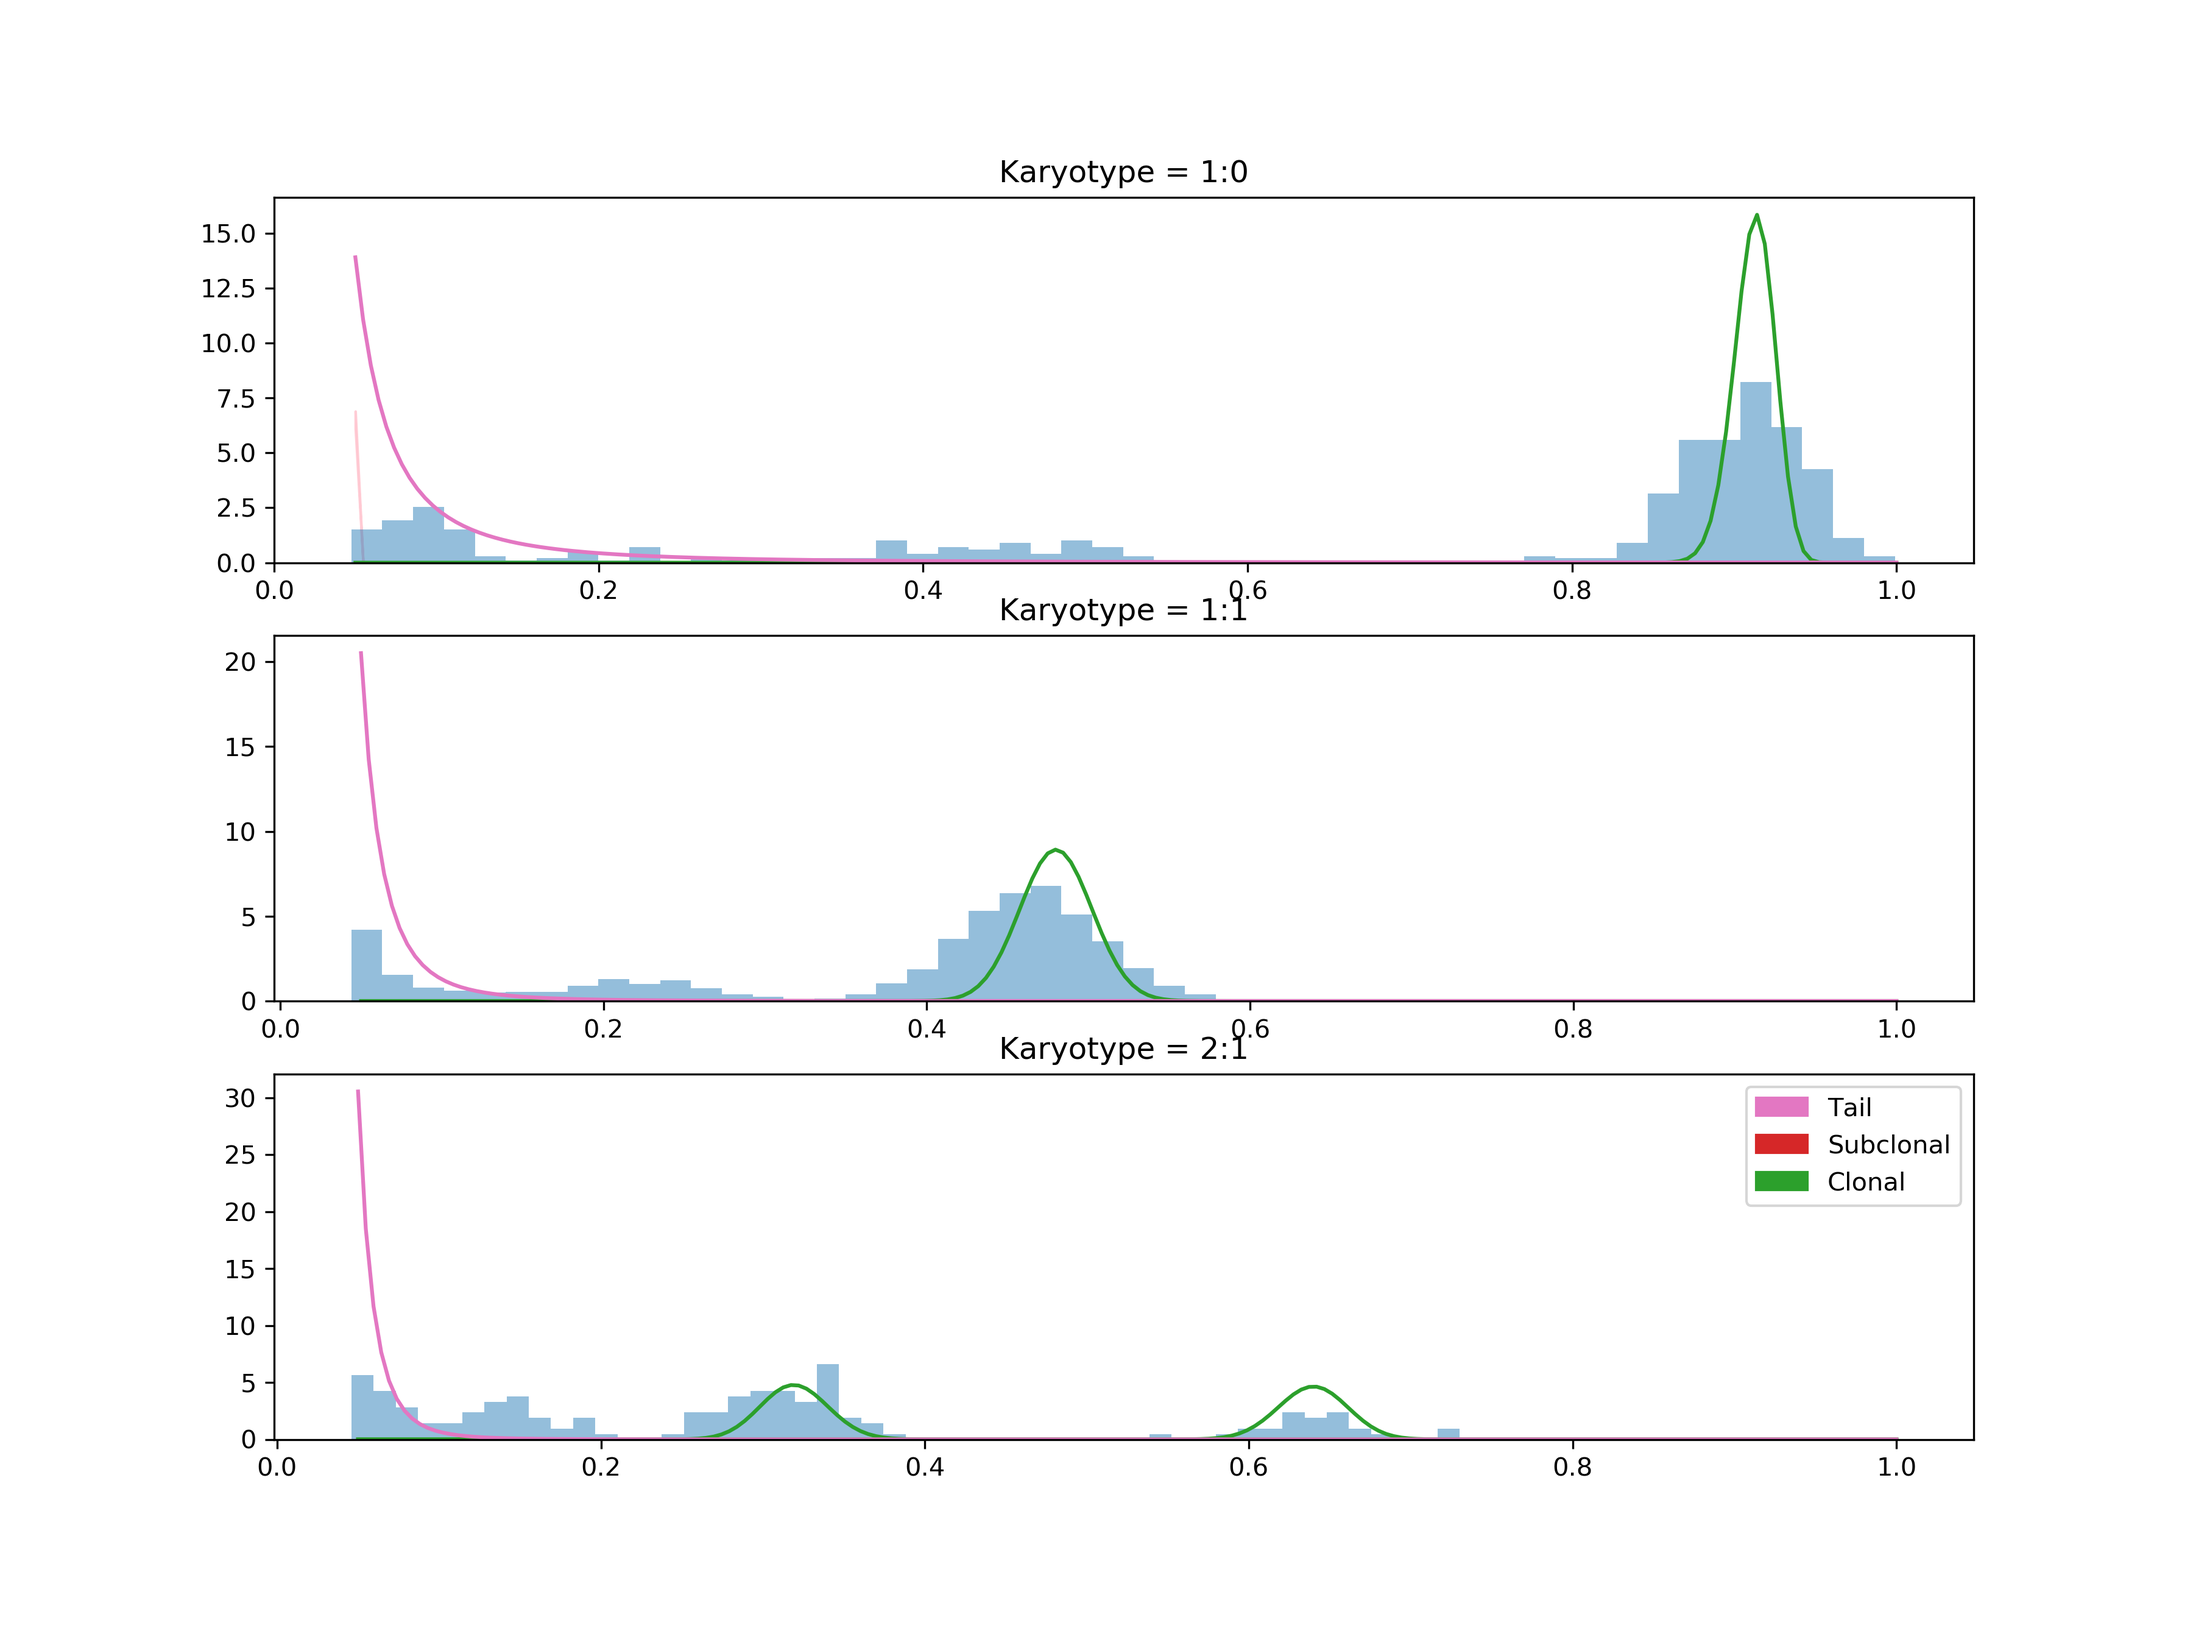
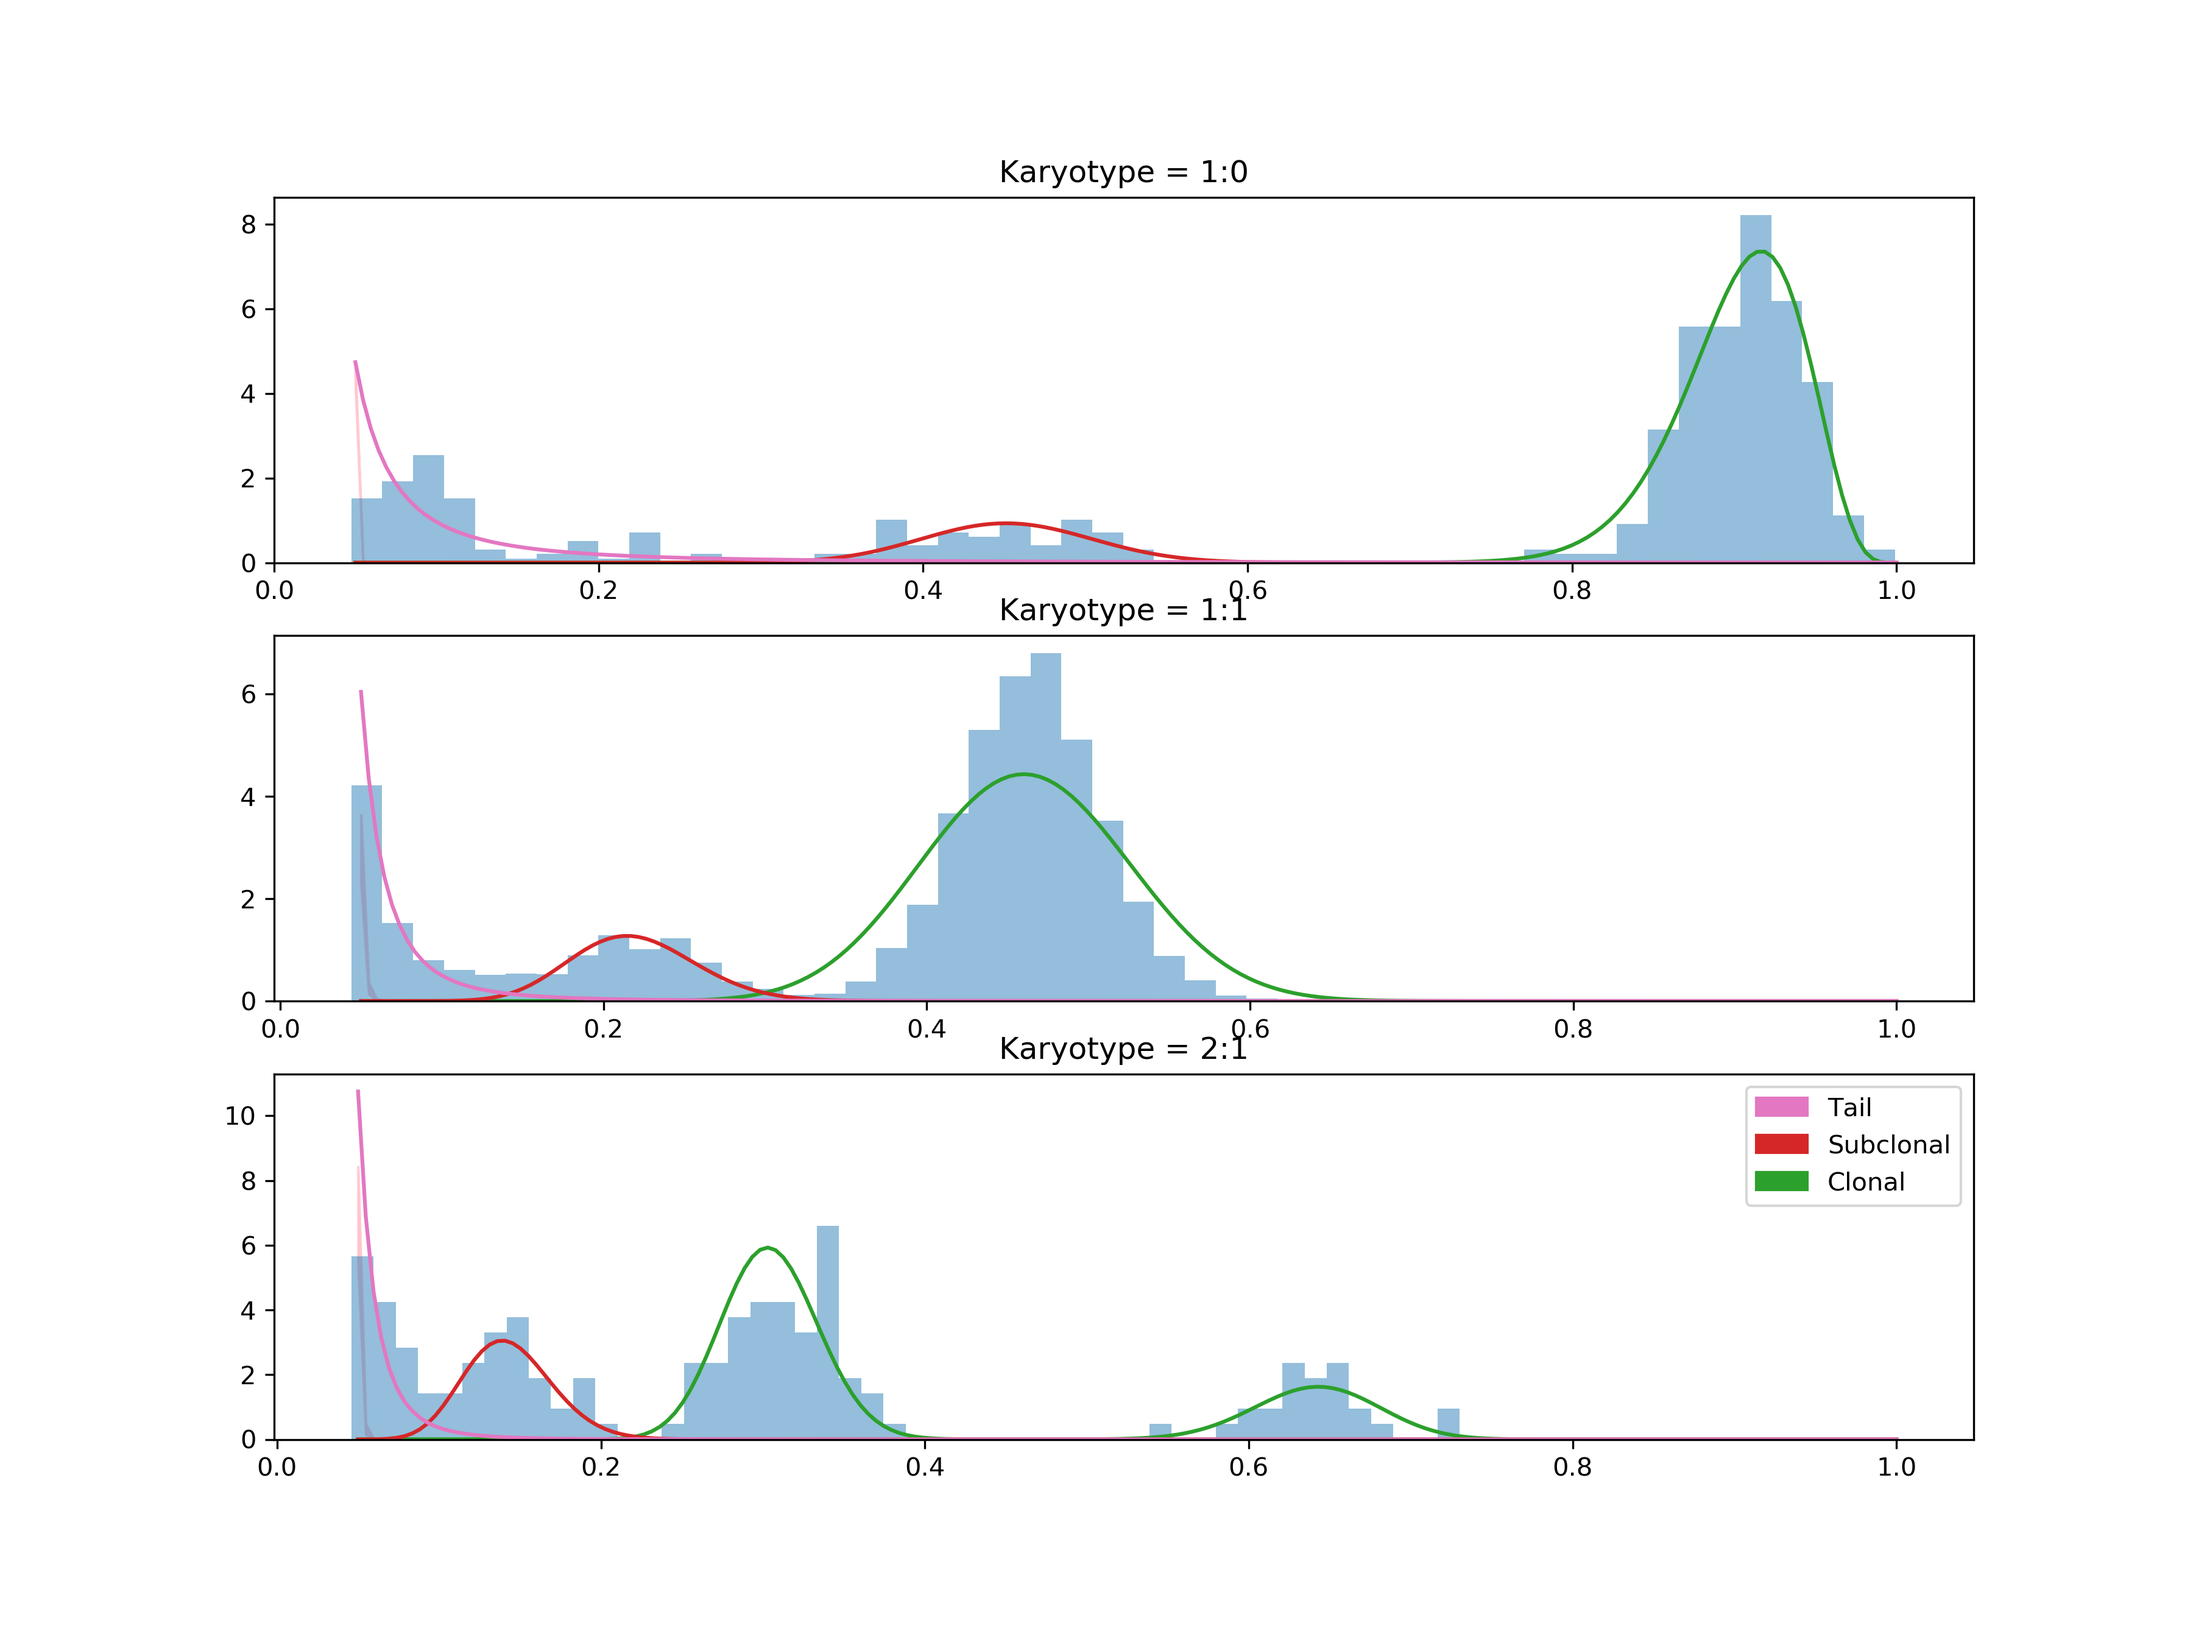
added switch for pareto

diff --git a/mobster/model_mobster.py b/mobster/model_mobster.py
@@ -7,7 +7,7 @@ import mobster.utils_mobster as mut
 
 
 @config_enumerate
-def model(data, K=1, tail=1, purity=0.96,  number_of_trials_clonal_mean=500., number_of_trials_k=300.,
+def model(data, K=1, tail=1, truncated_pareto = True, purity=0.96,  number_of_trials_clonal_mean=500., number_of_trials_k=300.,
          prior_lims_clonal=[0.1, 100000.], prior_lims_k=[0.1, 100000.], alpha_precision_concentration = 5, alpha_precision_rate=0.1):
 
     """Hierarchical bayesian model for Subclonal Deconvolution from VAF
@@ -82,7 +82,7 @@ def model(data, K=1, tail=1, purity=0.96,  number_of_trials_clonal_mean=500., nu
                 if K == 0:
                     k_means = torch.zeros(0)
                 else:
-                    k_means = (torch.min(theoretical_clonal_means[kr] - 0.01) / (K + 1)) * torch.arange(1,K+1)
+                    k_means = ((torch.min(theoretical_clonal_means[kr] * purity) - 0.01) / (K + 1)) * torch.arange(1,K+1)
                 # Number of sucessful trials for beta means prior
                 bm_12 = torch.tensor(
                     flatten_list([theoretical_clonal_means[kr].tolist(), k_means.tolist()])) * number_of_trials_clonal_mean
@@ -138,7 +138,11 @@ def model(data, K=1, tail=1, purity=0.96,  number_of_trials_clonal_mean=500., nu
                                    (1 - betas_subclone_mean2) * betas_subclone_n_samples2,
                                    weights_2, K + theoretical_num_clones[kr],
                                    data[karyos[kr]])
-                    pareto = BoundedPareto(torch.min(data[karyos[kr]]) - 1e-5, alpha, torch.amax(theoretical_clonal_means[kr])).log_prob(data[karyos[kr]])
+                    if truncated_pareto:
+                        pareto = BoundedPareto(torch.min(data[karyos[kr]]) - 1e-5, alpha, torch.amin(theoretical_clonal_means[kr])).log_prob(data[karyos[kr]])
+                    else:
+                        pareto = dist.Pareto(torch.min(data[karyos[kr]]) - 1e-5, alpha).log_prob(data[karyos[kr]])
+
                     pyro.factor("lik_{}".format(kr), log_sum_exp(final_lk(pareto, beta, tail_probs)).sum())
 
 
@@ -147,7 +151,10 @@ def model(data, K=1, tail=1, purity=0.96,  number_of_trials_clonal_mean=500., nu
                                    (1 - betas_subclone_mean) * betas_subclone_n_samples,
                                    weights_1, K + theoretical_num_clones[kr],
                                    data[karyos[kr]])
-                    pareto = BoundedPareto(torch.min(data[karyos[kr]]) - 1e-5, alpha, torch.amax(theoretical_clonal_means[kr])).log_prob(data[karyos[kr]])
+                    if truncated_pareto:
+                        pareto = BoundedPareto(torch.min(data[karyos[kr]]) - 1e-5, alpha, torch.amin(theoretical_clonal_means[kr])).log_prob(data[karyos[kr]])
+                    else:
+                        pareto = dist.Pareto(torch.min(data[karyos[kr]]) - 1e-5, alpha).log_prob(data[karyos[kr]])
                     pyro.factor("lik_{}".format(kr), log_sum_exp(final_lk(pareto, beta, tail_probs)).sum())
 
             else:

diff --git a/mobster/likelihood_calculation.py b/mobster/likelihood_calculation.py
@@ -22,7 +22,7 @@ def final_lk(pareto, beta, weights):
     lk[1:(1 + dim1), :] = torch.log(weights[1]) + beta
     return lk
 
-def compute_likelihood_from_params(data, params, tail, tsum = True):
+def compute_likelihood_from_params(data, params, tail, truncated_pareto, tsum = True):
 
     theoretical_num_clones = get_theo_clones(data)
     clones_count = get_clones_counts(theoretical_num_clones)
@@ -34,7 +34,7 @@ def compute_likelihood_from_params(data, params, tail, tsum = True):
     for i,k in enumerate(data):
 
         if tail == 1:
-            tmp = compute_likelihood_from_params_tail(data[k], params, i, theoretical_num_clones, clones_count)
+            tmp = compute_likelihood_from_params_tail(data[k],truncated_pareto, params, i, theoretical_num_clones, clones_count)
             if tsum:
                 tmp = log_sum_exp(tmp)
                 lk += torch.sum(tmp)
@@ -56,17 +56,20 @@ def compute_likelihood_from_params(data, params, tail, tsum = True):
 
 
 
-def compute_likelihood_from_params_tail(data, params, i, theo_clones, counts_clone):
+def compute_likelihood_from_params_tail(data, truncated_pareto, params, i, theo_clones, counts_clone):
     j = counts_clone[i]
     b_max = 0
     if theo_clones[i] == 2:
-        b_max = torch.amax(params['a_2'][1:2,j])
+        b_max = torch.amin(params['a_2'][1:2,j])
         beta = beta_lk(params['a_2'][:,j] * params['b_2'][:,j],
                        (1 - params['a_2'][:,j]) * params['b_2'][:, j],
                        params['param_weights_{}'.format(theo_clones[i])][j, :],
                        len(params['a_2'][:, j]),
                        data)
-        pareto = BoundedPareto(torch.min(data) - 1e-5, params['tail_mean'], b_max).log_prob(data)
+        if truncated_pareto:
+            pareto = BoundedPareto(torch.min(data) - 1e-5, params['tail_mean'], b_max).log_prob(data)
+        else:
+            pareto = dist.Pareto(torch.min(data) - 1e-5, params['tail_mean']).log_prob(data)
         lk = final_lk(pareto, beta, params['param_tail_weights'][i, :])
     else:
         if params['a_1'][:,j].shape[0] > 1:
@@ -78,7 +81,10 @@ def compute_likelihood_from_params_tail(data, params, i, theo_clones, counts_clo
                        params['param_weights_{}'.format(theo_clones[i])][j,:],
                        len(params['a_1'][:, j]),
                        data)
-        pareto = BoundedPareto(torch.min(data) - 1e-5, params['tail_mean'], b_max).log_prob(data)
+        if truncated_pareto:
+            pareto = BoundedPareto(torch.min(data) - 1e-5, params['tail_mean'], b_max).log_prob(data)
+        else:
+            pareto = dist.Pareto(torch.min(data) - 1e-5, params['tail_mean']).log_prob(data)
         lk = final_lk(pareto, beta, params['param_tail_weights'][i, :])
     return lk
 

diff --git a/mobster/guide_mobster.py b/mobster/guide_mobster.py
@@ -10,7 +10,7 @@ import mobster.utils_mobster as mut
 
 
 @config_enumerate
-def guide(data, K=1, tail=1, purity=0.96, clonal_beta_var=1., number_of_trials_clonal_mean=100.,
+def guide(data, K=1, tail=1, truncated_pareto = True, purity=0.96, clonal_beta_var=1., number_of_trials_clonal_mean=100.,
           number_of_trials_clonal=900., number_of_trials_k=300., prior_lims_clonal=[1., 10000.],alpha_precision_concentration = 5, alpha_precision_rate=0.1,
           prior_lims_k=[1., 10000.]):
     """
@@ -37,7 +37,7 @@ def guide(data, K=1, tail=1, purity=0.96, clonal_beta_var=1., number_of_trials_c
     index_2 = [i for i, j in enumerate(theoretical_num_clones) if j == 2]
     index_1 = [i for i, j in enumerate(theoretical_num_clones) if j == 1]
 
-    a_prior = pyro.param("tail_mean", torch.tensor(1.5), constraint=constraints.interval(0.5, 5))
+    a_prior = pyro.param("tail_mean", torch.tensor(1), constraint=constraints.interval(0.5, 5))
     alpha_precision_par = pyro.param("alpha_noise",
                                  dist.Gamma(concentration=alpha_precision_concentration, rate=alpha_precision_rate).mean * torch.ones([len(karyos)]),
                                  constraint=constraints.positive)
@@ -64,18 +64,19 @@ def guide(data, K=1, tail=1, purity=0.96, clonal_beta_var=1., number_of_trials_c
     if K != 0:
         if 2 in counts_clones.keys():
 
-            k2 = torch.cat([theoretical_clonal_means[kr] for kr in range(len(karyos)) if theoretical_num_clones[kr] == 2]).reshape([counts_clones[2],2])
+            k2 = torch.cat([theoretical_clonal_means[kr] * purity for kr in range(len(karyos)) if theoretical_num_clones[kr] == 2]).reshape([counts_clones[2],2])
 
 
-            k_means_2 = ((torch.amin(k2, dim = 1) - 0.05) / (K +1) ).reshape([1, counts_clones[2]]) * torch.arange(1, K + 1).reshape([K,1]) + 0.12
+            k_means_2 = ((torch.amin(k2, dim = 1) - 0.01) / (K +1) ).reshape([1, counts_clones[2]]) * torch.arange(1, K + 1).reshape([K,1]) + 0.02
         else:
             k_means_2 = 0
 
 
-        if 1 in counts_clones.keys():
-            k1 = torch.tensor([theoretical_clonal_means[kr] for kr in range(len(karyos)) if theoretical_num_clones[kr] == 1]).reshape([counts_clones[1],1])
 
-            k_means_1 = ((torch.amin(k1, dim = 1) - 0.05) / (K + 1)).reshape([1,counts_clones[1]]) * torch.arange(1, K + 1).reshape([K, 1])  + 0.12
+        if 1 in counts_clones.keys():
+            k1 = torch.tensor([theoretical_clonal_means[kr] * purity for kr in range(len(karyos)) if theoretical_num_clones[kr] == 1]).reshape([counts_clones[1],1])
+
+            k_means_1 = ((torch.amin(k1, dim = 1) - 0.01) / (K + 1)).reshape([1,counts_clones[1]]) * torch.arange(1, K + 1).reshape([K, 1]) + 0.02
         else:
             k_means_1 = 0
     else:

diff --git a/mobster/interface_mobster.py b/mobster/interface_mobster.py
@@ -17,7 +17,7 @@ from mobster.calculate_posteriors import *
 from pyro.util import ignore_jit_warnings
 
 
-def fit_mobster(data, K, tail=1, purity=0.96, number_of_trials_clonal_mean=500.,number_of_trials_k=300.,
+def fit_mobster(data, K, tail=1, truncated_pareto = True, purity=0.96, number_of_trials_clonal_mean=500.,number_of_trials_k=300.,
                 alpha_precision_concentration = 5, alpha_precision_rate=0.1,
          prior_lims_clonal=[0.1, 100000.], prior_lims_k=[0.1, 100000.], stopping = ELBO_stopping_criteria, lr = 0.05,
                 max_it = 5000, e = 0.001, compile = False, CUDA = False, seed = 3, lrd_gamma = 0.1):
@@ -51,6 +51,7 @@ def fit_mobster(data, K, tail=1, purity=0.96, number_of_trials_clonal_mean=500.,
     params = {
         'K' : K,
         'tail' : tail,
+        'truncated_pareto' : truncated_pareto,
         'purity' : purity,
         'alpha_precision_concentration' : alpha_precision_concentration,
         'alpha_precision_rate' : alpha_precision_rate,
@@ -64,15 +65,15 @@ def fit_mobster(data, K, tail=1, purity=0.96, number_of_trials_clonal_mean=500.,
     params_dict = retrieve_params()
     print("", flush=True)
     print("Computing cluster assignements.", flush=True)
-    params_dict = retrieve_posterior_probs(data, params_dict, tail)
+    params_dict = retrieve_posterior_probs(data,truncated_pareto,  params_dict, tail)
 
 
     ### Caclculate information criteria
     print("Computing information criteria.", flush=True)
-    likelihood = ms.likelihood(data, params_dict, tail)
-    AIC = ms.AIC(data, params_dict, tail)
-    BIC = ms.BIC(data, params_dict, tail)
-    ICL = ms.ICL(data, params_dict, tail)
+    likelihood = ms.likelihood(data, params_dict, tail, truncated_pareto)
+    AIC = ms.AIC(data, params_dict, tail, truncated_pareto)
+    BIC = ms.BIC(data, params_dict, tail, truncated_pareto)
+    ICL = ms.ICL(data, params_dict, tail, truncated_pareto)
 
     params_dict = format_parameters_for_export(data, params_dict, tail)
 

diff --git a/mobster/model_selection_mobster.py b/mobster/model_selection_mobster.py
@@ -2,26 +2,26 @@ from mobster.likelihood_calculation import *
 import numpy as np
 
 
-def ICL(data, params, tail):
-    bic = BIC(data, params, tail)
+def ICL(data, params, tail, truncated_pareto):
+    bic = BIC(data, params, tail, truncated_pareto)
     entropy = compute_entropy(params, tail)
     return bic + entropy
 
-def BIC(data, params, tail):
-    lk = likelihood(data, params, tail)
+def BIC(data, params, tail, truncated_pareto):
+    lk = likelihood(data, params, tail, truncated_pareto)
     n_params = calculate_number_of_params(params)
     n = number_of_samples(data)
     return np.log(n) * n_params - 2 * lk
 
 
-def AIC(data, params, tail):
-    lk = likelihood(data, params, tail)
+def AIC(data, params, tail, truncated_pareto):
+    lk = likelihood(data, params, tail, truncated_pareto)
     n_params = calculate_number_of_params(params)
     return 2 * n_params - 2 * lk
 
 
-def likelihood(data, params, tail):
-    lk = compute_likelihood_from_params(data, params, tail)
+def likelihood(data, params, tail, truncated_pareto):
+    lk = compute_likelihood_from_params(data, params, tail, truncated_pareto)
     return lk
 
 

diff --git a/mobster/calculate_posteriors.py b/mobster/calculate_posteriors.py
@@ -1,8 +1,8 @@
 from mobster.likelihood_calculation import *
 
 
-def retrieve_posterior_probs(data, parameters, tail):
-    lks = compute_likelihood_from_params(data, parameters, tail, tsum = False)
+def retrieve_posterior_probs(data, truncated_pareto, parameters, tail):
+    lks = compute_likelihood_from_params(data, parameters, tail, truncated_pareto, tsum = False)
     res = {k : 0 for k in data.keys()}
     for k in res:
         lks_k = lks[k]

diff --git a/setup.py b/setup.py
@@ -5,7 +5,7 @@ from setuptools import setup
 #        return f.read()
 
 setup(name='HMOBSTER',
-      version='0.0.26',
+      version='0.0.27',
       description='Copy Number genotyping from single cell RNA sequencing',
       url='https://github.com/Militeee/hmobster',
       author='Salvatore Milite',
